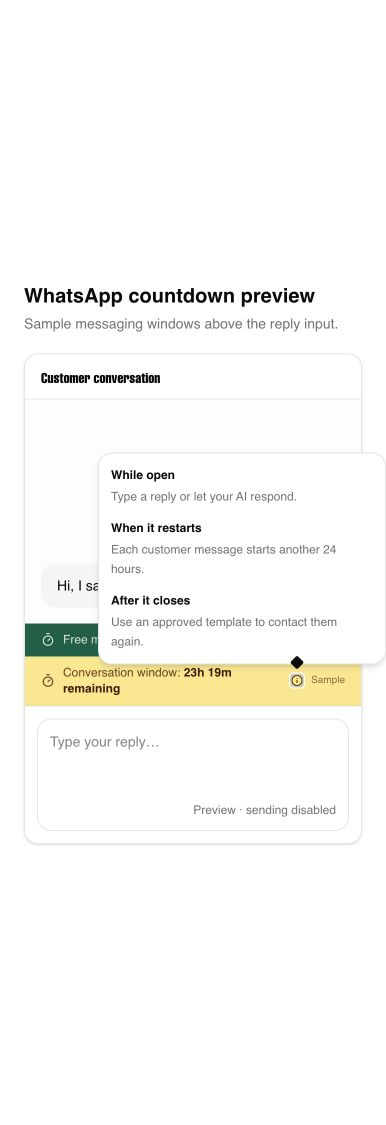
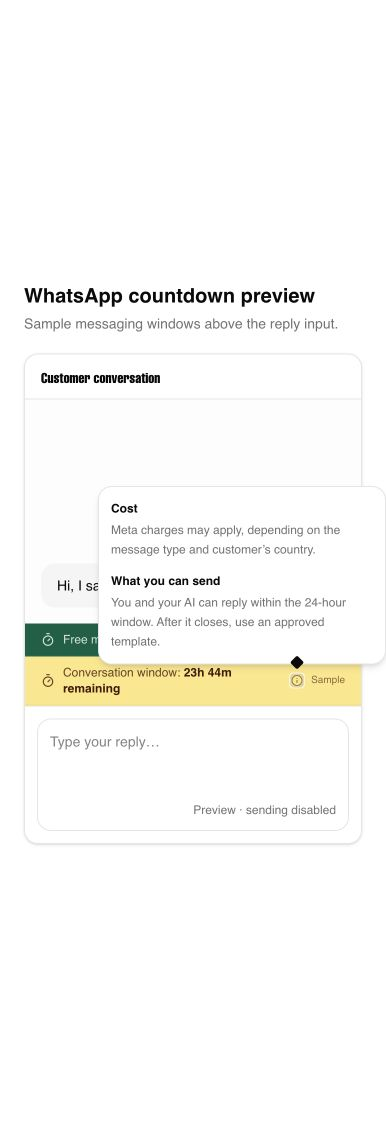
Simplify messaging window tooltip sections

diff --git a/src/components/inbox/ConversationWindowBanner.tsx b/src/components/inbox/ConversationWindowBanner.tsx
@@ -1,6 +1,6 @@
 import { useEffect, useState } from 'react';
-import { Info, Timer, ArrowRight } from 'lucide-react';
-import { Link, useSearchParams } from 'react-router';
+import { Info, Timer } from 'lucide-react';
+import { useSearchParams } from 'react-router';
 import { Tooltip, TooltipContent, TooltipTrigger } from '@/components/ui/tooltip';
 import { cn } from '@/lib/utils';
 import { SandboxConversationWindowBanners } from './SandboxConversationWindowBanners';
@@ -73,14 +73,12 @@ type ConversationWindowBannerProps = {
   lastCustomerMessageAt: number | undefined;
   /** The conversation service/platform. Only Meta platforms show the banner. */
   service: string;
-  /** The current agent ID, used for building the outreach link. */
   agentId: string | undefined;
 };
 
 export function ConversationWindowBanner({
   lastCustomerMessageAt,
   service,
-  agentId,
   freeMessagingExpiresAt,
 }: ConversationWindowBannerProps) {
   const [searchParams] = useSearchParams();
@@ -106,7 +104,6 @@ export function ConversationWindowBanner({
       )}
       <ConversationWindowBannerInner
         lastCustomerMessageAt={lastCustomerMessageAt}
-        agentId={agentId}
       />
     </>
   );
@@ -114,10 +111,8 @@ export function ConversationWindowBanner({
 
 function ConversationWindowBannerInner({
   lastCustomerMessageAt,
-  agentId,
 }: {
   lastCustomerMessageAt: number | undefined;
-  agentId: string | undefined;
 }) {
   const [now, setNow] = useState(() => Date.now());
 
@@ -166,41 +161,7 @@ function ConversationWindowBannerInner({
           </button>
         </TooltipTrigger>
         <TooltipContent side="top" className="max-w-72 p-3 bg-popover text-popover-foreground border border-border shadow-md z-50 text-xs rounded-xl leading-relaxed">
-          <div className="flex flex-col gap-2">
-            <MessagingWindowExplanation window="conversation" />
-              <a
-                href="https://developers.facebook.com/documentation/business-messaging/whatsapp/messages/send-messages"
-                target="_blank"
-                rel="noopener noreferrer"
-                className="text-blue-600 dark:text-blue-400 hover:underline font-medium"
-              >
-                Learn more
-              </a>
-            {agentId && (
-              <div className="pt-2 border-t border-border/60 flex flex-col gap-2.5">
-                <div className="flex flex-col gap-0.5">
-                  <span className="text-muted-foreground font-normal">Need to send a follow-up?</span>
-                  <Link
-                    to={`/dashboard/${agentId}/follow-ups`}
-                    className="text-blue-600 dark:text-blue-400 hover:underline font-medium w-fit inline-flex items-center gap-1"
-                  >
-                    Try Follow-ups
-                    <ArrowRight className="size-3" />
-                  </Link>
-                </div>
-                <div className="flex flex-col gap-0.5">
-                  <span className="text-muted-foreground font-normal">Need to send marketing material?</span>
-                  <Link
-                    to={`/dashboard/${agentId}/broadcast`}
-                    className="text-blue-600 dark:text-blue-400 hover:underline font-medium w-fit inline-flex items-center gap-1"
-                  >
-                    Try Broadcast
-                    <ArrowRight className="size-3" />
-                  </Link>
-                </div>
-              </div>
-            )}
-          </div>
+          <MessagingWindowExplanation window="conversation" />
         </TooltipContent>
       </Tooltip>
     </div>

diff --git a/src/components/inbox/MessagingWindowExplanation.tsx b/src/components/inbox/MessagingWindowExplanation.tsx
@@ -3,15 +3,13 @@ type MessagingWindowExplanationProps = {
 };
 
 const conversationSections = [
-  { title: 'While open', body: 'Type a reply or let your AI respond.' },
-  { title: 'When it restarts', body: 'Each customer message starts another 24 hours.' },
-  { title: 'After it closes', body: 'Use an approved template to contact them again.' },
+  { title: 'Cost', body: 'Meta charges may apply, depending on the message type and customer’s country.' },
+  { title: 'What you can send', body: 'You and your AI can reply within the 24-hour window. After it closes, use an approved template.' },
 ];
 
 const freeMessagingSections = [
-  { title: 'What’s free', body: 'Meta messaging charges are waived for 72 hours.' },
-  { title: 'When it starts', body: 'Reply within 24 hours to an eligible ad or Facebook Page CTA message.' },
-  { title: 'Reply rules', body: 'If the 24-hour conversation window closes, use an approved template.' },
+  { title: 'Cost', body: 'No Meta messaging charges while this 72-hour window is open.' },
+  { title: 'What you can send', body: 'You and your AI can reply within the 24-hour window. After it closes, use an approved template.' },
 ];
 
 export function MessagingWindowExplanation({ window }: MessagingWindowExplanationProps) {
